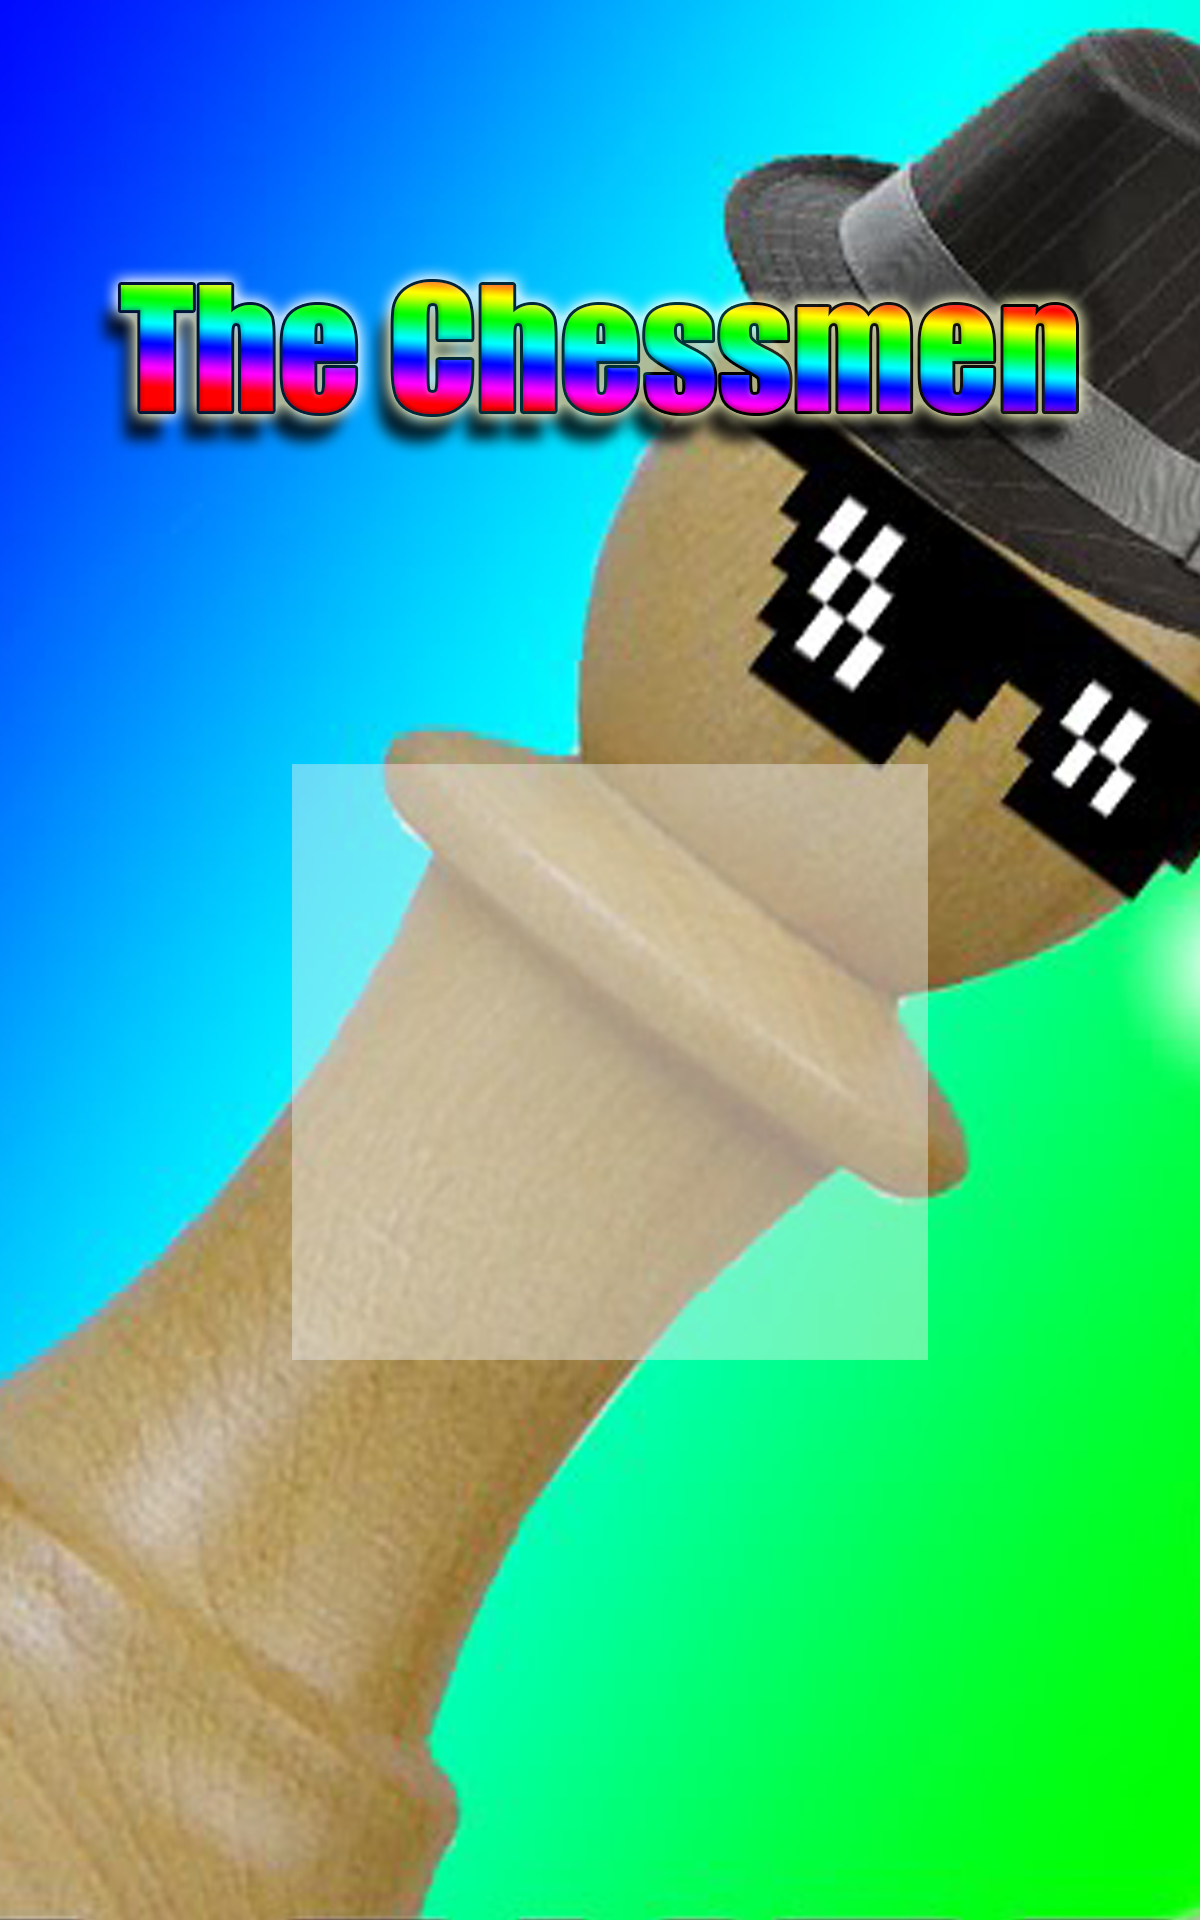
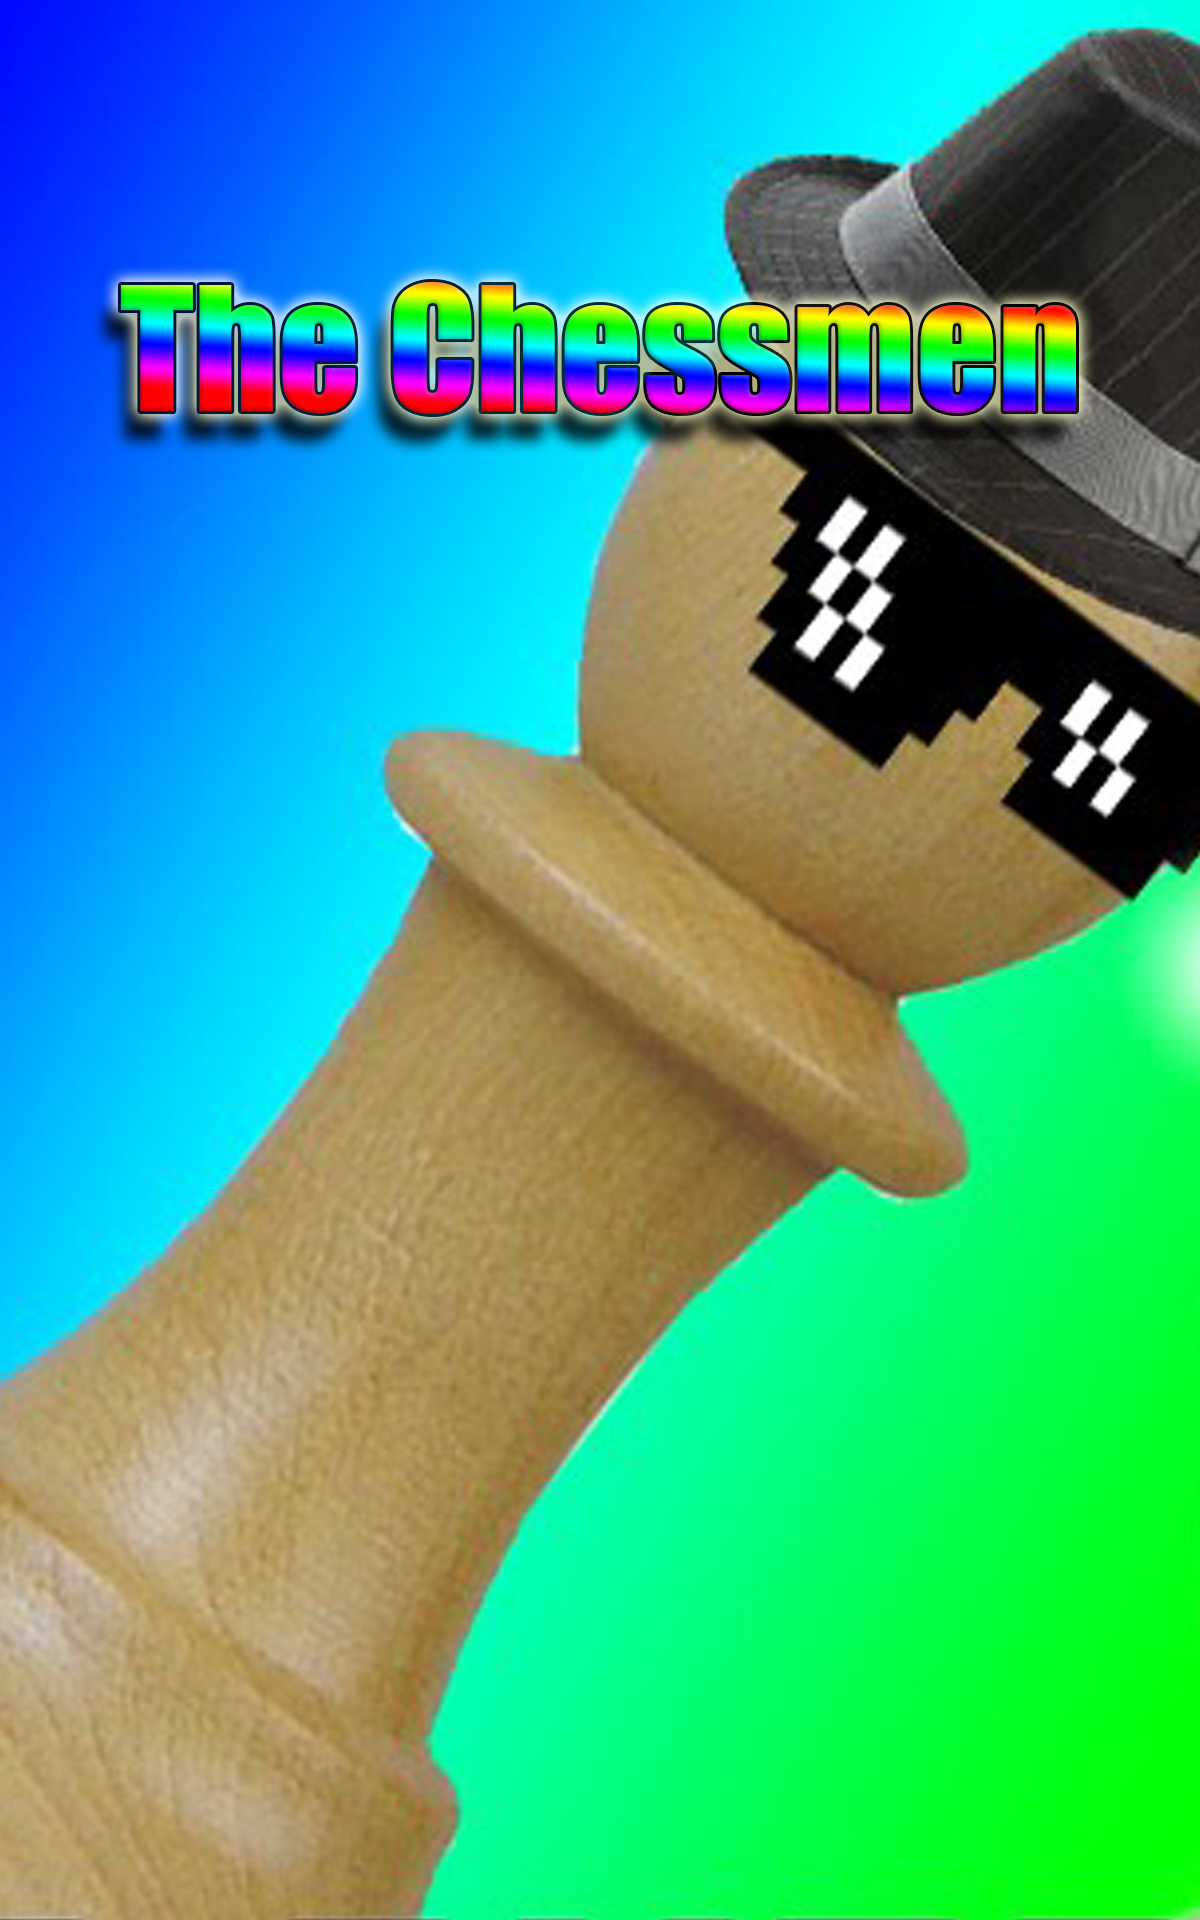
fixed transparrent rifle, better gamescreen view etc.

Changed region(s): [[0.2158, 0.375, 0.7708, 0.7188]]

diff --git a/core/src/tdt4240/chess/Views/GameScreen.java b/core/src/tdt4240/chess/Views/GameScreen.java
@@ -21,10 +21,11 @@ import tdt4240.chess.AssetClasses.SoundAssets;
 import tdt4240.chess.Main;
 import tdt4240.chess.Models.Board;
 import tdt4240.chess.Utility.ChessmanColor;
+import tdt4240.chess.Utility.Options;
 
 public class GameScreen implements Screen {
 
-    private final Stage stage = new Stage(new FitViewport(8, 12));
+    private final Stage stage = new Stage(new FitViewport(8, 10));
     Table ui;
     TextButton resetGameBtn, menuBtn;
     Main game;
@@ -42,15 +43,15 @@ public class GameScreen implements Screen {
         btnGroup = new HorizontalGroup();
         btnGroup.space(5);
         hudGroup = new VerticalGroup();
-        hudGroup.space(5);
+        hudGroup.space(15);
         turnLabel = new Label(turn, GraphicsAssets.secondaryLabelStyle);
         resetGameBtn = new TextButton("Reset Game", GraphicsAssets.btnStyle);
         menuBtn = new TextButton("Main Menu", GraphicsAssets.btnStyle);
         menuBtn.addListener(new ClickListener() {
-           public void clicked(InputEvent event, float x, float y) {
-               game.setScreen(new MainMenu(game));
-               SoundAssets.stopPlayingBackgroundMusic();
-           }
+            public void clicked(InputEvent event, float x, float y) {
+                game.setScreen(new MainMenu(game));
+                SoundAssets.stopPlayingBackgroundMusic();
+            }
         });
         resetGameBtn.addListener(new ClickListener() {
             public void clicked(InputEvent event, float x, float y) {

diff --git a/core/src/tdt4240/chess/Views/OptionsScreen.java b/core/src/tdt4240/chess/Views/OptionsScreen.java
@@ -3,6 +3,8 @@ package tdt4240.chess.Views;
 import com.badlogic.gdx.Gdx;
 import com.badlogic.gdx.Screen;
 import com.badlogic.gdx.graphics.GL30;
+import com.badlogic.gdx.graphics.Texture;
+import com.badlogic.gdx.graphics.g2d.Sprite;
 import com.badlogic.gdx.scenes.scene2d.InputEvent;
 import com.badlogic.gdx.scenes.scene2d.Stage;
 import com.badlogic.gdx.scenes.scene2d.ui.TextButton;
@@ -21,9 +23,14 @@ public class OptionsScreen implements Screen {
     private final Stage stage = new Stage(new FitViewport(8, 12));
     VerticalGroup btnGroupSound, btnGroupModes, btnGroupBack;
     TextButton muteSfx, muteMusic, backBtn, mode0Btn, mode1Btn, mode2Btn;
+    Texture backgroundImage;
+    Sprite sprite;
 
     public OptionsScreen(Main game) {
         this.game = game;
+        backgroundImage = new Texture(Gdx.files.internal("optionsScreen.png"));
+        sprite = new Sprite(backgroundImage);
+        sprite.setSize(1.0f, 1.0f * sprite.getHeight() / sprite.getWidth());
     }
 
     @Override
@@ -102,6 +109,9 @@ public class OptionsScreen implements Screen {
     public void render(float delta) {
         Gdx.gl.glClearColor(.3f, .3f, .4f, 1);
         Gdx.gl.glClear(GL30.GL_COLOR_BUFFER_BIT);
+        game.batch.begin();
+        game.batch.draw(backgroundImage, 0, 0, Gdx.graphics.getWidth(), Gdx.graphics.getHeight());
+        game.batch.end();
         if (Options.MUSIC_ENABLED) {
             muteMusic.setText("Mute Music");
         }

diff --git a/core/src/tdt4240/chess/Views/MainMenu.java b/core/src/tdt4240/chess/Views/MainMenu.java
@@ -31,7 +31,7 @@ public class MainMenu implements Screen {
         this.game = game;
         backgroundImage = new Texture(Gdx.files.internal("menuScreen.png"));
         sprite = new Sprite(backgroundImage);
-        sprite.setSize(0.9f, 0.9f* sprite.getHeight() / sprite.getWidth());
+        sprite.setSize(1.0f, 1.0f* sprite.getHeight() / sprite.getWidth());
     }
 
     public void createMenu() {
